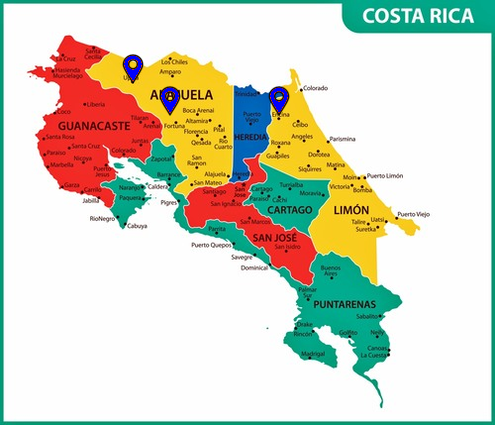
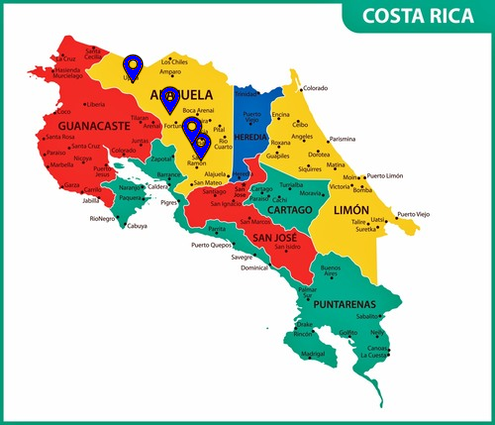
Arreglado ubicaciones al editar

Changed region(s): [[0.3636, 0.2753, 0.4242, 0.3976], [0.5455, 0.1835, 0.6061, 0.2753]]

diff --git a/src/main/java/sistema/presentation/empleado/empleadoAgregar/Controller.java b/src/main/java/sistema/presentation/empleado/empleadoAgregar/Controller.java
@@ -63,32 +63,31 @@ public class Controller {
 
     public Boolean EmpleadoAdd(Empleado e){
         Boolean result = false;
+        Empleado empleadoBuscar = null;
         try {
             switch (model.getModo()) {
                 case Application.MODO_AGREGAR:
                     Service.instance().empleadoAdd(e);
                     Service.instance().store();
                     model.setEmpleado(e);
-
-                    Empleado empleadoBuscar = Service.instance().empleadoGet(e.getCedula());
-                    if(empleadoBuscar == null){
-                        hide();
-                    }else{
-                        result = true;
-                    }
-
+                     empleadoBuscar = Service.instance().empleadoGet(e.getCedula());
                     break;
                 case Application.MODO_EDITAR:
                     Service.instance().empleadoUpdate(e);
                     model.setEmpleado(e);
+                    empleadoBuscar = Service.instance().empleadoGet(e.getCedula());
                     break;
+            }
+            if(empleadoBuscar == null){
+                hide();
+            }else{
+                result = true;
             }
             Application.EMPLEADOS.searchEmpleado("");
             model.commit();
         }catch (Exception ex){
             JOptionPane.showMessageDialog(view, ex.getMessage(), "Error", JOptionPane.ERROR_MESSAGE);
         }
-
         return result;
     }
 

diff --git a/src/main/java/sistema/presentation/sucursal/sucursalAgregar/Controller.java b/src/main/java/sistema/presentation/sucursal/sucursalAgregar/Controller.java
@@ -59,25 +59,28 @@ public class Controller {
 
     public Boolean SucursalAdd(Sucursal sucursal, Point p){
         boolean result = false;
+        Sucursal s = null;
         try {
             switch (model.getModo()) {
                 case Application.MODO_AGREGAR:
                     Service.instance().sucursalAdd(sucursal, p);
                     Service.instance().store();
-                    Sucursal s = Service.instance().sucursalGet(sucursal.getCodigo());
-                    if(s == null){
-                        hide();
-                    }else{
-                        result = true;
-                    }
+                    s = Service.instance().sucursalGet(sucursal.getCodigo());
                     break;
                 case Application.MODO_EDITAR:
-                    Service.instance().sucursalUpdate(sucursal);
+                    Service.instance().sucursalUpdate(sucursal, p);
                     model.setSucursal(sucursal);
+                    s = Service.instance().sucursalGet(sucursal.getCodigo());
                     break;
+            }
+            if(s == null){
+                hide();
+            }else{
+                result = true;
             }
             Application.SUCURSALES.searchSucursal("");
             model.commit();
+
 
         } catch (Exception ex) {
             JOptionPane.showMessageDialog(view, ex.getMessage(), "Error", JOptionPane.ERROR_MESSAGE);

diff --git a/src/main/java/sistema/logic/Service.java b/src/main/java/sistema/logic/Service.java
@@ -79,11 +79,18 @@ public class Service {
         return data.getSucursales().stream().filter(f->f.getCodigo().equals(codigo)).findFirst().orElse(null);
     }
 
-    public void sucursalUpdate(Sucursal sucursal) throws Exception{
+    public void sucursalUpdate(Sucursal sucursal, Point p) throws Exception{
         Sucursal result;
         try{
             result = sucursaleSearchForCode(sucursal.getCodigo());
             data.getSucursales().remove(result);
+            for (Punto punto: data.getUbicSucursales()) {
+                if (punto.getSucursalCodigo().equals(sucursal.getCodigo())){
+                    punto.setX(p.getX());
+                    punto.setY(p.getY());
+                    sucursal.setPunto(punto);
+                }
+            }
             data.getSucursales().add(sucursal);
             JOptionPane.showMessageDialog(null, "Sucursal editado con exito");
         }catch (Exception e) {
